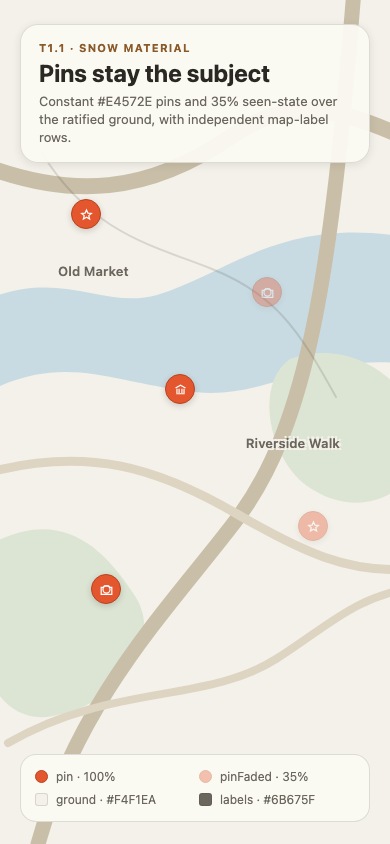
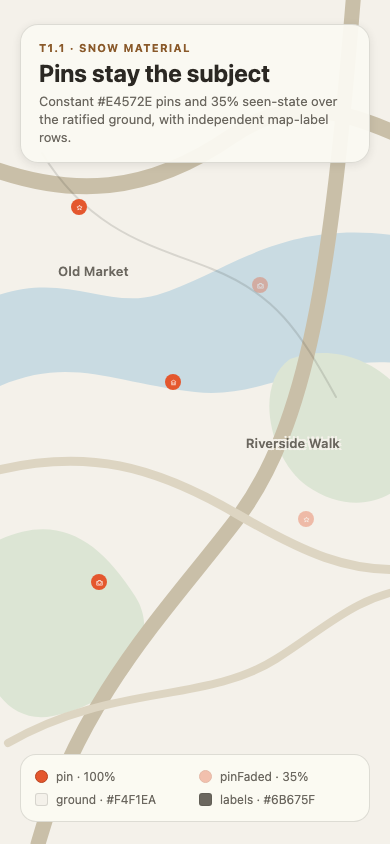
Address design system review findings

diff --git a/ios/Tests/DesignSystemTests/MaterialTokensTests.swift b/ios/Tests/DesignSystemTests/MaterialTokensTests.swift
@@ -40,6 +40,7 @@ final class MaterialTokensTests: XCTestCase {
         XCTAssertEqual(pins, .constant)
         XCTAssertEqual(pins.pin, color(0xE4, 0x57, 0x2E))
         XCTAssertEqual(pins.pinFaded, color(0xE4, 0x57, 0x2E, opacity: 0.35))
+        XCTAssertEqual(pins.trackLine, color(0x2D, 0x8C, 0x83))
     }
 
     func testMapRowsCanVaryWithoutChangingTheirInitialSourceTokens() {
@@ -65,6 +66,28 @@ final class MaterialTokensTests: XCTestCase {
         }
         assertStaticAcrossSystemAppearances(sheet.pins.pin, label: "pin")
         assertStaticAcrossSystemAppearances(sheet.pins.pinFaded, label: "pinFaded")
+        assertStaticAcrossSystemAppearances(sheet.pins.trackLine, label: "trackLine")
+    }
+
+    func testContrastGateRejectsTranslucentOperands() {
+        XCTAssertNil(
+            contrastRatio(
+                color(0x00, 0x00, 0x00, opacity: 0),
+                color(0xFF, 0xFF, 0xFF)
+            )
+        )
+        XCTAssertNil(
+            contrastRatio(
+                color(0x00, 0x00, 0x00, opacity: 0.5),
+                color(0xFF, 0xFF, 0xFF)
+            )
+        )
+        XCTAssertNil(
+            contrastRatio(
+                color(0x00, 0x00, 0x00),
+                color(0xFF, 0xFF, 0xFF, opacity: 0.5)
+            )
+        )
     }
 
     func testEveryMaterialPassesBodyAndLargeUIContrastGates() {
@@ -152,6 +175,17 @@ final class MaterialTokensTests: XCTestCase {
         let lightResolved = color.swiftUIColor.resolve(in: light)
         let darkResolved = color.swiftUIColor.resolve(in: dark)
 
+        XCTAssertEqual(Double(lightResolved.red), color.red, accuracy: 0.000_001, label, file: file, line: line)
+        XCTAssertEqual(Double(lightResolved.green), color.green, accuracy: 0.000_001, label, file: file, line: line)
+        XCTAssertEqual(Double(lightResolved.blue), color.blue, accuracy: 0.000_001, label, file: file, line: line)
+        XCTAssertEqual(
+            Double(lightResolved.opacity),
+            color.opacity,
+            accuracy: 0.000_001,
+            label,
+            file: file,
+            line: line
+        )
         XCTAssertEqual(lightResolved.red, darkResolved.red, accuracy: 0.000_001, label, file: file, line: line)
         XCTAssertEqual(lightResolved.green, darkResolved.green, accuracy: 0.000_001, label, file: file, line: line)
         XCTAssertEqual(lightResolved.blue, darkResolved.blue, accuracy: 0.000_001, label, file: file, line: line)
@@ -166,7 +200,14 @@ final class MaterialTokensTests: XCTestCase {
         file: StaticString = #filePath,
         line: UInt = #line
     ) {
-        let ratio = contrastRatio(foreground, background)
+        guard let ratio = contrastRatio(foreground, background) else {
+            XCTFail(
+                "\(label) contrast requires opaque foreground and background tokens",
+                file: file,
+                line: line
+            )
+            return
+        }
         XCTAssertGreaterThanOrEqual(
             ratio,
             minimum,
@@ -176,7 +217,10 @@ final class MaterialTokensTests: XCTestCase {
         )
     }
 
-    private func contrastRatio(_ first: MaterialColor, _ second: MaterialColor) -> Double {
+    private func contrastRatio(_ first: MaterialColor, _ second: MaterialColor) -> Double? {
+        guard first.opacity == 1, second.opacity == 1 else {
+            return nil
+        }
         let lighter = max(relativeLuminance(first), relativeLuminance(second))
         let darker = min(relativeLuminance(first), relativeLuminance(second))
         return (lighter + 0.05) / (darker + 0.05)

diff --git a/ios/Sources/DesignSystem/MaterialTokens.swift b/ios/Sources/DesignSystem/MaterialTokens.swift
@@ -75,18 +75,21 @@ public enum SemanticColorToken: String, CaseIterable, Hashable, Sendable {
 public struct PinTokenBlock: Hashable, Sendable {
     public static let constant = PinTokenBlock(
         pin: MaterialColor(red: 0xE4, green: 0x57, blue: 0x2E),
+        trackLine: MaterialColor(red: 0x2D, green: 0x8C, blue: 0x83),
         fadedOpacity: 0.35
     )
 
     public let pin: MaterialColor
+    public let trackLine: MaterialColor
     public let fadedOpacity: Double
 
     public var pinFaded: MaterialColor {
         pin.withOpacity(fadedOpacity)
     }
 
-    private init(pin: MaterialColor, fadedOpacity: Double) {
+    private init(pin: MaterialColor, trackLine: MaterialColor, fadedOpacity: Double) {
         self.pin = pin
+        self.trackLine = trackLine
         self.fadedOpacity = fadedOpacity
     }
 }

diff --git a/ios/App/Tests/AppShellTests.swift b/ios/App/Tests/AppShellTests.swift
@@ -8,13 +8,15 @@ import MakingTracksMapStyle
 @testable import MakingTracks
 
 final class AppShellTests: XCTestCase {
-    func testAccentColorAssetMatchesSnowAccent() {
+    @MainActor
+    func testAccentColorAssetIsTheGlobalAppAccent() {
         guard let asset = UIColor(named: "AccentColor", in: .main, compatibleWith: nil) else {
             XCTFail("AccentColor asset must be compiled into the app")
             return
         }
 
         assertColor(Color(uiColor: asset), red: 10.0 / 255.0, green: 107.0 / 255.0, blue: 92.0 / 255.0)
+        XCTAssertEqual(Bundle.main.object(forInfoDictionaryKey: "NSAccentColorName") as? String, "AccentColor")
     }
 
     func testPlaceCardVisualSpecMatchesApprovedCardLayout() {

diff --git a/docs/design/design-system/t1.1-snow-pin-pop.html b/docs/design/design-system/t1.1-snow-pin-pop.html
@@ -44,16 +44,14 @@
   .pin {
     position: absolute;
     z-index: 3;
-    width: 30px;
-    height: 30px;
+    width: 16px;
+    height: 16px;
     border-radius: 50%;
     display: grid;
     place-items: center;
     background: var(--pin);
-    border: 1px solid #B8421F;
-    box-shadow: 0 2px 6px rgba(43, 40, 35, 0.20);
   }
-  .pin svg { width: 17px; height: 17px; fill: none; stroke: #FFF; stroke-width: 1.7; }
+  .pin svg { width: 9px; height: 9px; fill: none; stroke: #FFF; stroke-width: 1.7; }
   .pin.faded { opacity: 0.35; }
   .p1 { left: 71px; top: 199px; }
   .p2 { left: 252px; top: 277px; }
